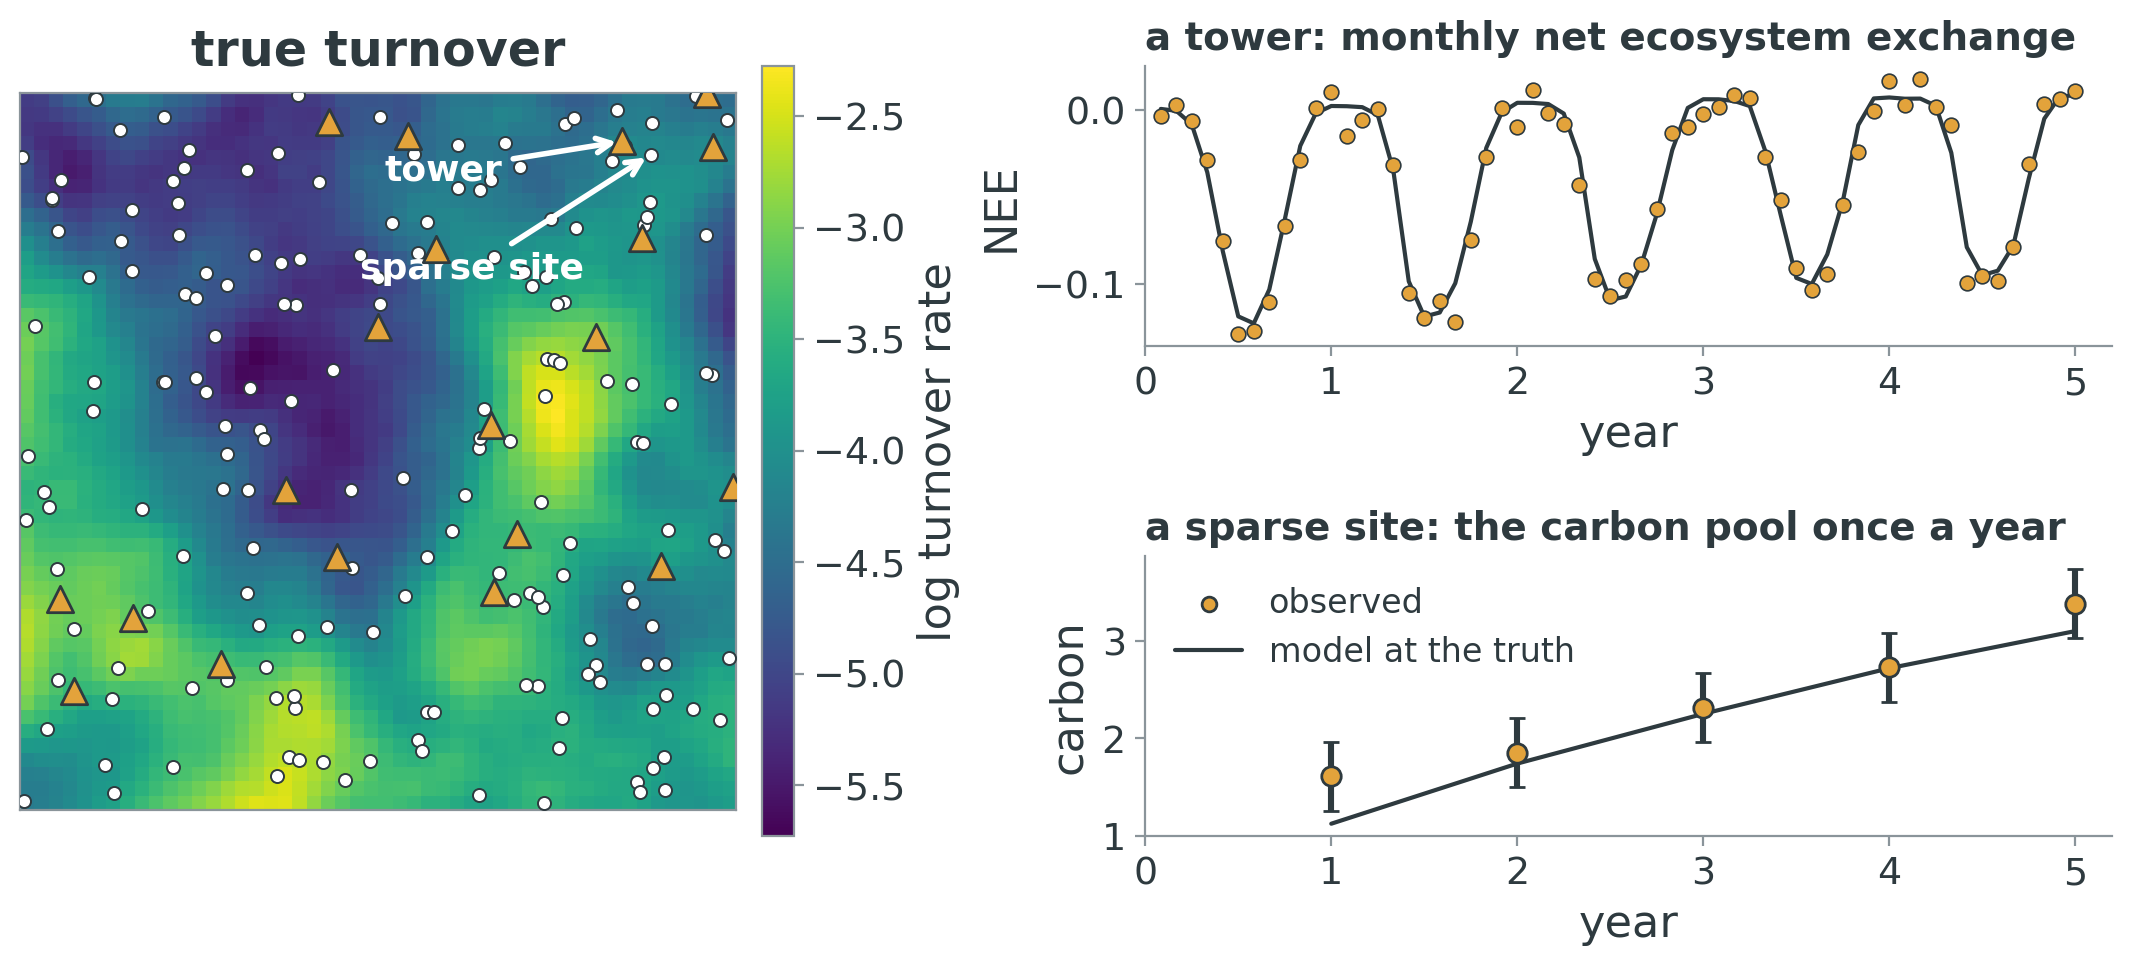
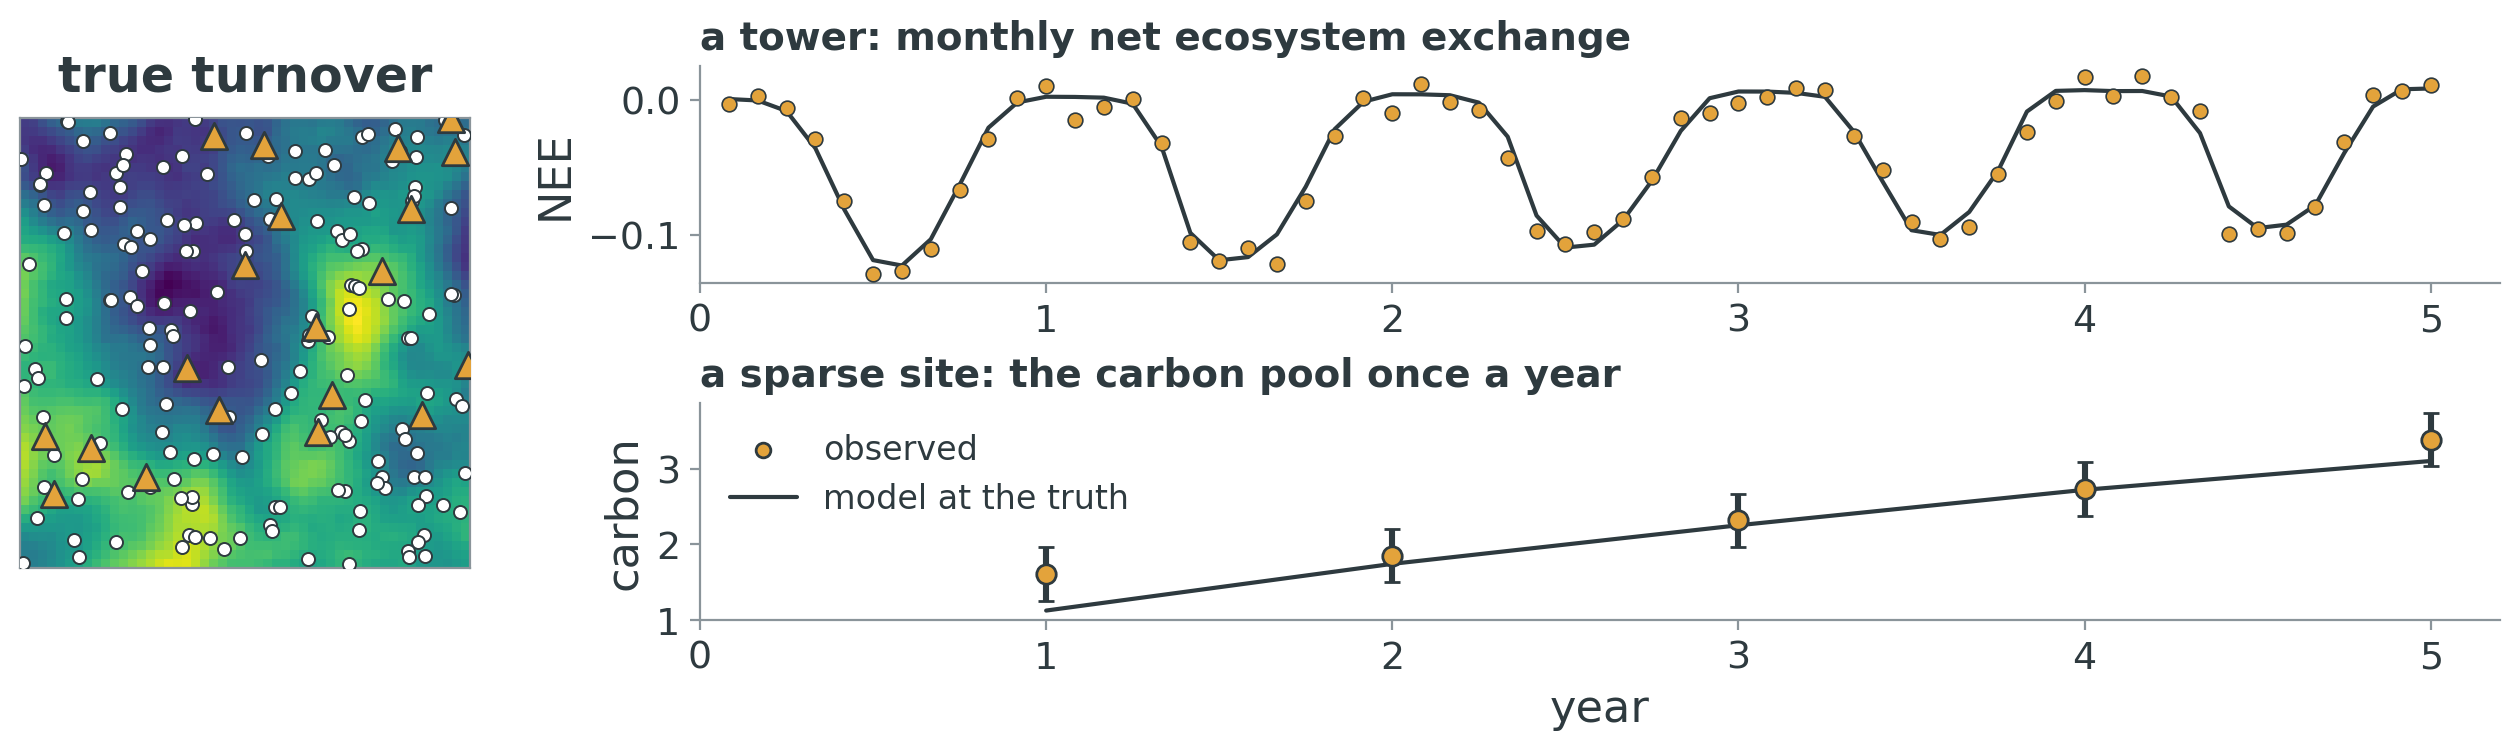
Rework the toy model slide: full-width figure, new bullets
"A toy world to test the idea" becomes "A toy model". The figure spans
the slide's width, without the map's site labels or colorbar and with one
shared year axis, and the four bullets below it state the model, its two
parameters, the sites and the goal.

diff --git a/experiments/presentation_aimes_talk/slides.css b/experiments/presentation_aimes_talk/slides.css
@@ -65,6 +65,12 @@
   margin: 0.4em 0;
 }
 
+/* Bullets under a full-width figure, set a little smaller and tighter. */
+.reveal .compact-list li {
+  font-size: 0.78em;
+  margin-bottom: 0.1em;
+}
+
 /* A one-line box under a large figure. */
 .reveal .box.compact-box {
   font-size: 0.85em;

diff --git a/experiments/presentation_aimes_talk/plots.py b/experiments/presentation_aimes_talk/plots.py
@@ -190,33 +190,25 @@ def toy_decomposition(toy: ToyResults, *, parameter: int) -> Figure:
 
 
 def toy_world(toy: ToyResults, *, parameter: int) -> Figure:
-    """The toy problem: the true field with the sites, and what a tower and a sparse site observe."""
+    """The toy problem: the true field with the sites, and what a tower and a sparse site observe.
+
+    The map has no colorbar: only the field's pattern matters here. The tower
+    and sparse site shown are ``showcase_sites``'.
+    """
     sites = showcase_sites(toy)
-    fig = plt.figure(figsize=(13.5, 5.0))
-    grid = fig.add_gridspec(2, 4, width_ratios=(1.0, 0.045, 0.42, 1.35), hspace=0.75, wspace=0.05)
+    fig = plt.figure(figsize=(16, 3.6))
+    # Column widths in inches: a square map as tall as the panels, room for the
+    # panels' axis labels, the panels.
+    grid = fig.add_gridspec(2, 3, width_ratios=(3.0, 1.0, 12.0), hspace=0.55, wspace=0.05)
     map_ax = fig.add_subplot(grid[:, 0])
-    colorbar_ax = fig.add_subplot(grid[:, 1])
-    nee_ax = fig.add_subplot(grid[0, 3])
-    pool_ax = fig.add_subplot(grid[1, 3])
+    nee_ax = fig.add_subplot(grid[0, 2])
+    pool_ax = fig.add_subplot(grid[1, 2])
 
     true_field = toy.truth.trend_map[:, parameter] + toy.truth.smooth_variation_map[:, parameter]
-    image = _image(map_ax, true_field, toy.map_grid_size, cmap=FIELD_COLORMAP)
+    _image(map_ax, true_field, toy.map_grid_size, cmap=FIELD_COLORMAP)
     _draw_sites(map_ax, toy)
-    # Label the two sites the right-hand panels show. The two are close
-    # together, so the labels go toward the map's center (never clipped) at
-    # different distances (never overlapping).
-    for site, label, distance in ((sites.tower, "tower", 0.04), (sites.sparse, "sparse site", 0.16)):
-        location = toy.training_locations[site]
-        toward_center = np.where(location > 0.5, -1.0, 1.0)
-        label_location = location + toward_center * [0.25, distance]
-        map_ax.annotate(
-            label, xy=location, xytext=label_location, ha="center", va="center",
-            color="white", fontsize=13, fontweight="bold",
-            arrowprops=dict(arrowstyle="->", color="white", linewidth=2.0),
-        )
     _toy_map_frame(map_ax)
     map_ax.set_title(f"true {config.PARAMETER_NAMES[parameter]}", pad=10)
-    fig.colorbar(image, cax=colorbar_ax, label=config.PARAMETER_LABELS[parameter])
 
     month_in_years = (np.arange(config.N_MONTHS) + 1) / 12
     nee = slice(0, config.N_MONTHS)
@@ -235,7 +227,8 @@ def toy_world(toy: ToyResults, *, parameter: int) -> Figure:
     pool_ax.set_ylabel("carbon")
     for ax in (nee_ax, pool_ax):
         ax.set_xlim(0, config.N_MONTHS / 12 + 0.2)
-        ax.set_xlabel("year")
+    # The panels share their years, so only the lower one is labeled.
+    pool_ax.set_xlabel("year")
     # One legend, in the pool panel's empty upper left, covers both panels.
     pool_ax.scatter([], [], color=PALETTE["sun"], edgecolor=PALETTE["ink"], s=28, label="observed")
     pool_ax.plot([], [], color=PALETTE["ink"], linewidth=1.5, label="model at the truth")
